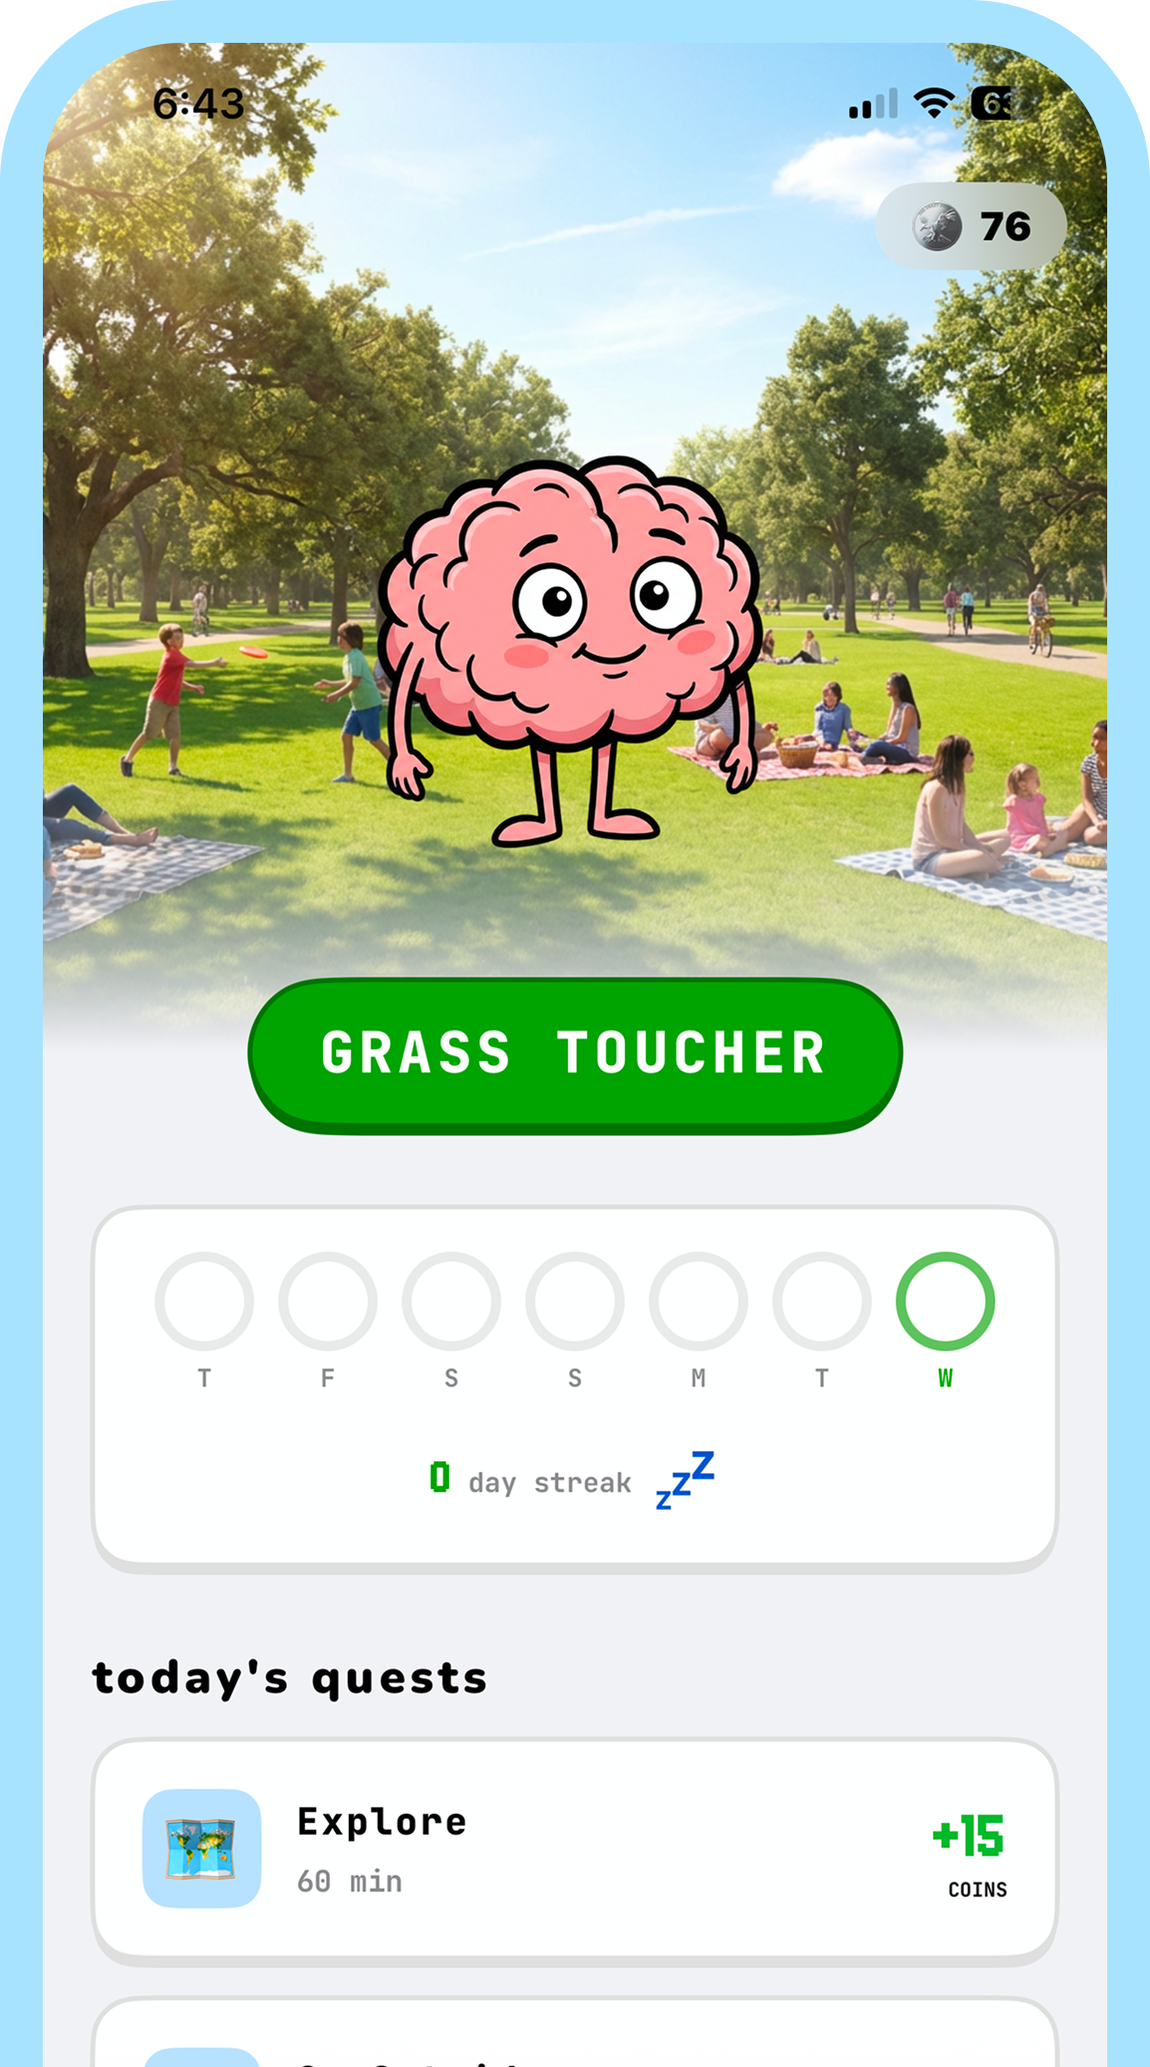
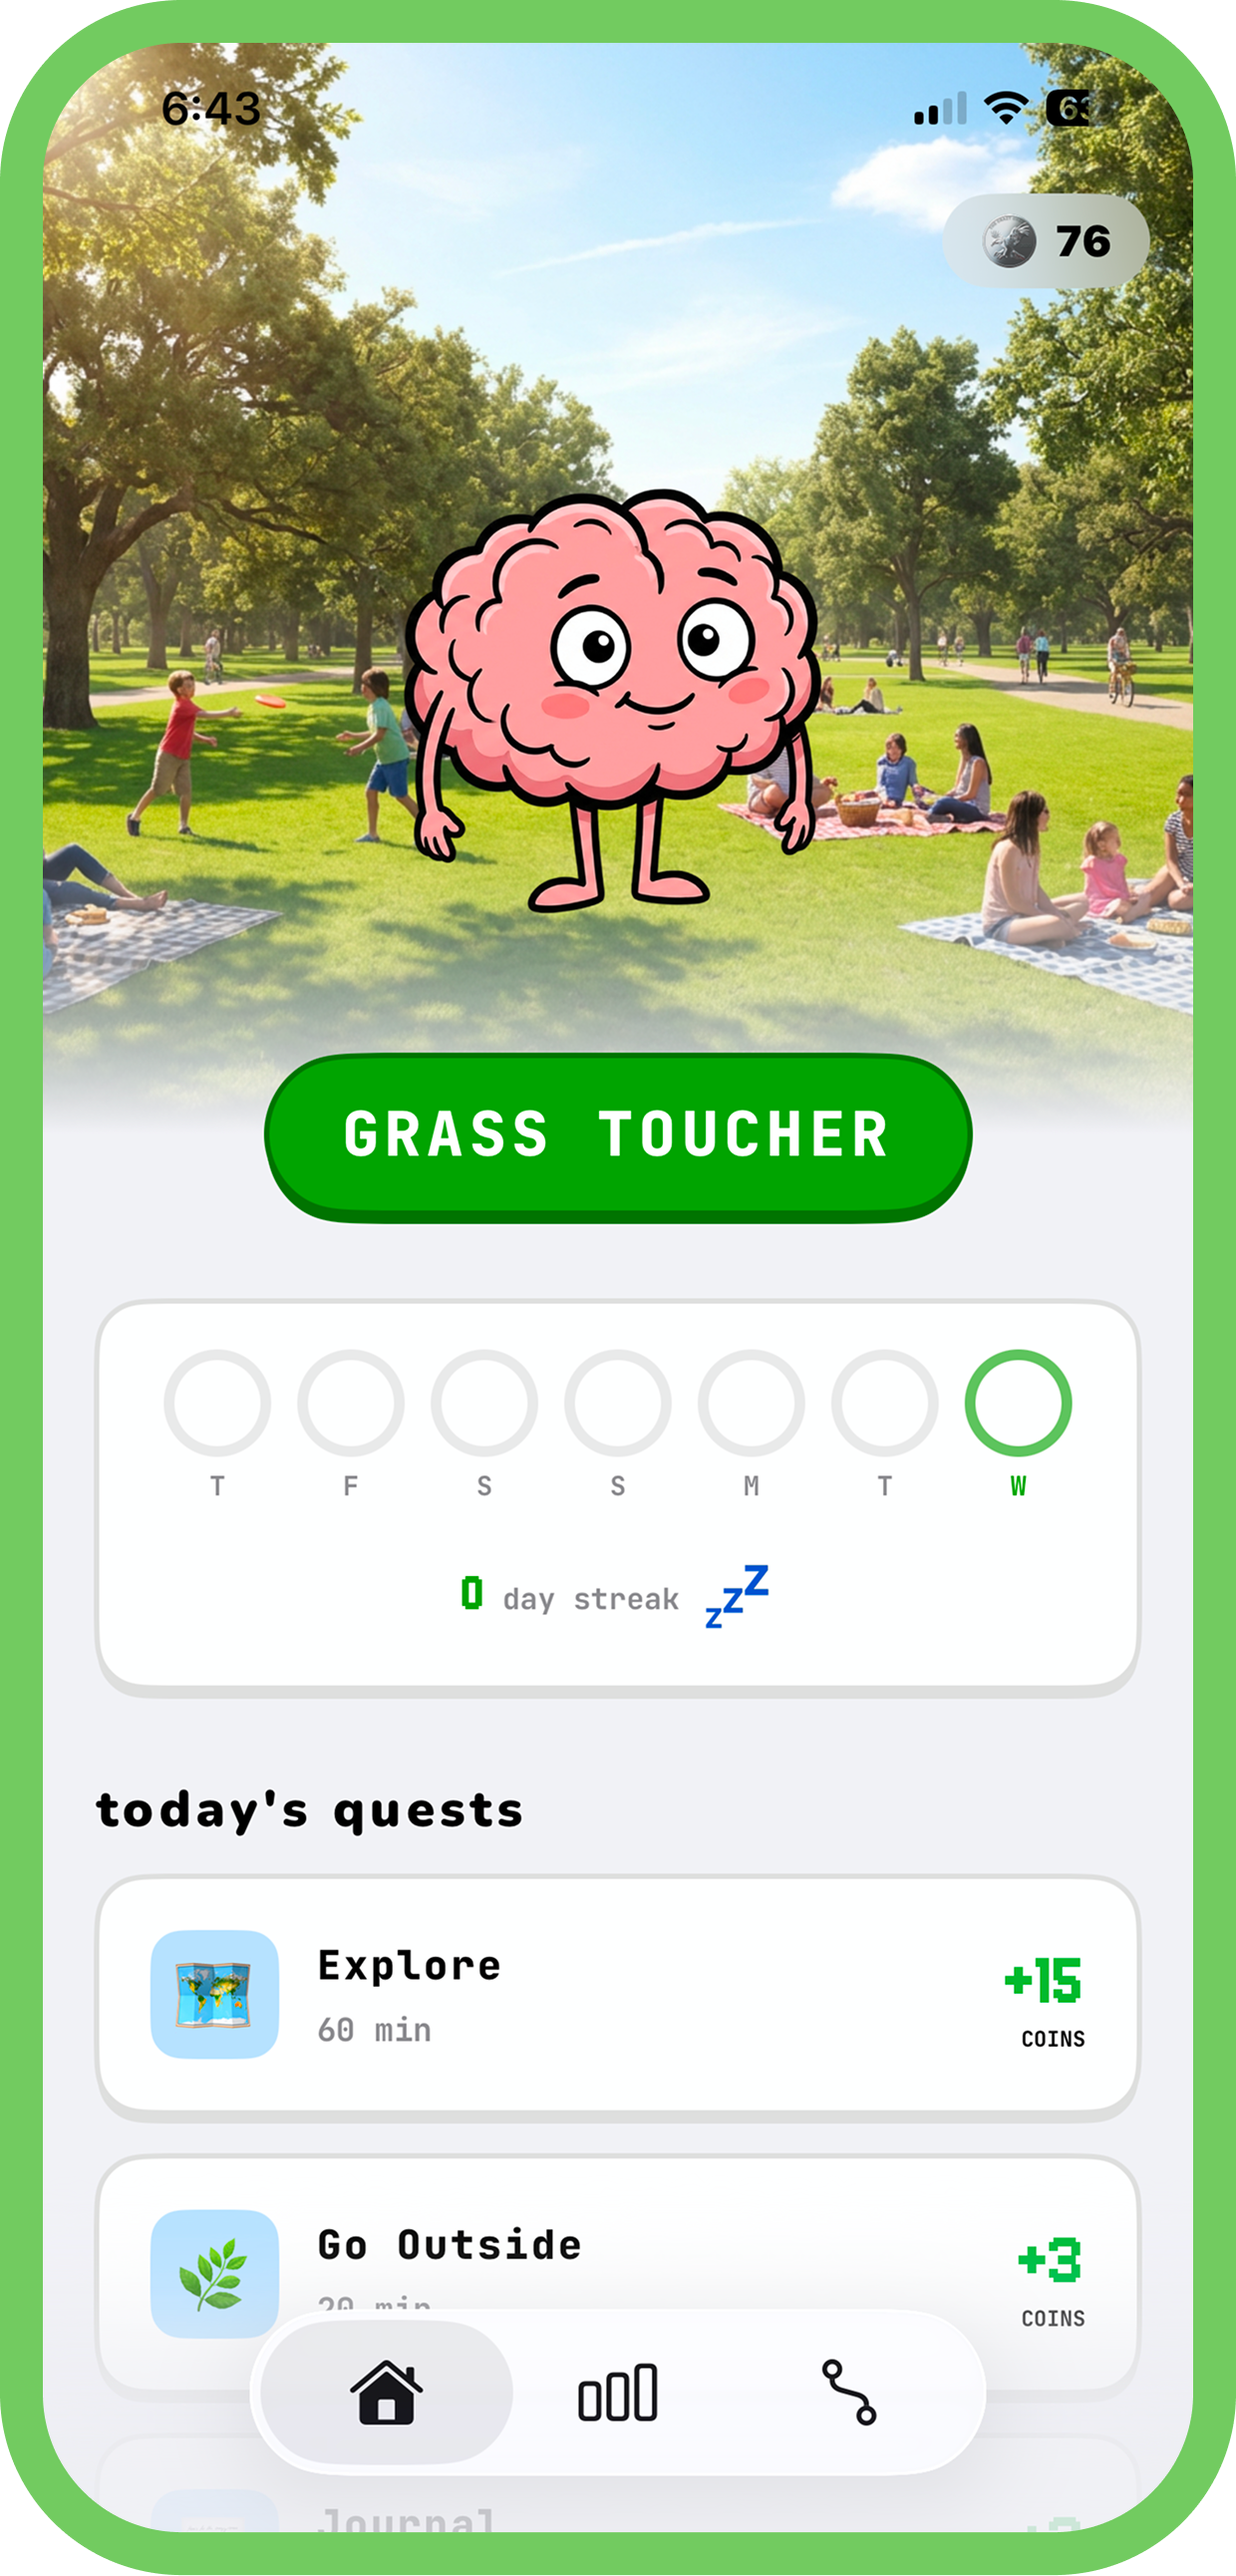
update screenshot

diff --git a/ScrollMaxxing/scrollmaxxing-privacy.html b/ScrollMaxxing/scrollmaxxing-privacy.html
@@ -12,9 +12,9 @@
         * { margin: 0; padding: 0; box-sizing: border-box; }
 
         :root {
-            --cyan: #00C9DB;
-            --cyan-light: #E0F9FB;
-            --cyan-dark: #00A8B8;
+            --cyan: #1BA100;
+            --cyan-light: #E1FFDB;
+            --cyan-dark: #137200;
             --dark: #0A0A0A;
             --gray-800: #1A1A1A;
             --gray-600: #4A4A4A;
@@ -45,6 +45,22 @@
             display: flex;
             justify-content: space-between;
             align-items: center;
+        }
+        .nav-logo {
+            display: flex;
+            align-items: center;
+            gap: 8px;
+            font-size: 20px;
+            font-weight: 700;
+            color: var(--dark);
+            text-decoration: none;
+            letter-spacing: -0.5px;
+        }
+        .nav-logo img {
+            display: block;
+            height: 28px;
+            width: 28px;
+            border-radius: 6px;
         }
         .nav-cta {
             background: var(--dark);
@@ -162,7 +178,7 @@
 
     <!-- NAV -->
     <nav>
-        <a href="./scrollmaxxing.html"><img src="logotitlecentered.png" alt="scrollmaxxing" style="height: 28px;"></a>
+        <a href="./scrollmaxxing.html" class="nav-logo"><img src="icon.png" alt="">scrollmaxxing</a>
         <a href="./scrollmaxxing.html#download" class="nav-cta">Download</a>
     </nav>
 

diff --git a/ScrollMaxxing/scrollmaxxing-support.html b/ScrollMaxxing/scrollmaxxing-support.html
@@ -12,9 +12,9 @@
         * { margin: 0; padding: 0; box-sizing: border-box; }
 
         :root {
-            --cyan: #00C9DB;
-            --cyan-light: #E0F9FB;
-            --cyan-dark: #00A8B8;
+            --cyan: #1BA100;
+            --cyan-light: #E1FFDB;
+            --cyan-dark: #137200;
             --dark: #0A0A0A;
             --gray-800: #1A1A1A;
             --gray-600: #4A4A4A;
@@ -45,6 +45,22 @@
             display: flex;
             justify-content: space-between;
             align-items: center;
+        }
+        .nav-logo {
+            display: flex;
+            align-items: center;
+            gap: 8px;
+            font-size: 20px;
+            font-weight: 700;
+            color: var(--dark);
+            text-decoration: none;
+            letter-spacing: -0.5px;
+        }
+        .nav-logo img {
+            display: block;
+            height: 28px;
+            width: 28px;
+            border-radius: 6px;
         }
         .nav-cta {
             background: var(--dark);
@@ -186,7 +202,7 @@
 
     <!-- NAV -->
     <nav>
-        <a href="./scrollmaxxing.html"><img src="logotitlecentered.png" alt="scrollmaxxing" style="height: 28px;"></a>
+        <a href="./scrollmaxxing.html" class="nav-logo"><img src="icon.png" alt="">scrollmaxxing</a>
         <a href="./scrollmaxxing.html#download" class="nav-cta">Download</a>
     </nav>
 

diff --git a/ScrollMaxxing/scrollmaxxing-termsofservice.html b/ScrollMaxxing/scrollmaxxing-termsofservice.html
@@ -12,9 +12,9 @@
         * { margin: 0; padding: 0; box-sizing: border-box; }
 
         :root {
-            --cyan: #00C9DB;
-            --cyan-light: #E0F9FB;
-            --cyan-dark: #00A8B8;
+            --cyan: #1BA100;
+            --cyan-light: #E1FFDB;
+            --cyan-dark: #137200;
             --dark: #0A0A0A;
             --gray-800: #1A1A1A;
             --gray-600: #4A4A4A;
@@ -45,6 +45,22 @@
             display: flex;
             justify-content: space-between;
             align-items: center;
+        }
+        .nav-logo {
+            display: flex;
+            align-items: center;
+            gap: 8px;
+            font-size: 20px;
+            font-weight: 700;
+            color: var(--dark);
+            text-decoration: none;
+            letter-spacing: -0.5px;
+        }
+        .nav-logo img {
+            display: block;
+            height: 28px;
+            width: 28px;
+            border-radius: 6px;
         }
         .nav-cta {
             background: var(--dark);
@@ -162,7 +178,7 @@
 
     <!-- NAV -->
     <nav>
-        <a href="./scrollmaxxing.html"><img src="logotitlecentered.png" alt="scrollmaxxing" style="height: 28px;"></a>
+        <a href="./scrollmaxxing.html" class="nav-logo"><img src="icon.png" alt="">scrollmaxxing</a>
         <a href="./scrollmaxxing.html#download" class="nav-cta">Download</a>
     </nav>
 

diff --git a/ScrollMaxxing/index.html b/ScrollMaxxing/index.html
@@ -20,9 +20,9 @@
         * { margin: 0; padding: 0; box-sizing: border-box; }
 
         :root {
-            --cyan: #00C9DB;
-            --cyan-light: #E0F9FB;
-            --cyan-dark: #00A8B8;
+            --cyan: #1BA100;
+            --cyan-light: #E1FFDB;
+            --cyan-dark: #137200;
             --dark: #0A0A0A;
             --gray-800: #1A1A1A;
             --gray-600: #4A4A4A;
@@ -60,11 +60,20 @@
             align-items: center;
         }
         .nav-logo {
+            display: flex;
+            align-items: center;
+            gap: 8px;
             font-size: 20px;
             font-weight: 700;
             color: var(--dark);
             text-decoration: none;
             letter-spacing: -0.5px;
+        }
+        .nav-logo img {
+            display: block;
+            height: 28px;
+            width: 28px;
+            border-radius: 6px;
         }
         .nav-cta {
             background: var(--dark);
@@ -365,7 +374,7 @@
 
     <!-- NAV -->
     <nav>
-        <a href="./scrollmaxxing.html"><img src="logotitlecentered.png" alt="scrollmaxxing" style="height: 28px;"></a>
+        <a href="./scrollmaxxing.html" class="nav-logo"><img src="icon.png" alt="">scrollmaxxing</a>
         <a href="#download" class="nav-cta">Download</a>
     </nav>
 

diff --git a/ScrollMaxxing/scrollmaxxing.html b/ScrollMaxxing/scrollmaxxing.html
@@ -54,9 +54,9 @@
         * { margin: 0; padding: 0; box-sizing: border-box; }
 
         :root {
-            --cyan: #00C9DB;
-            --cyan-light: #E0F9FB;
-            --cyan-dark: #00A8B8;
+            --cyan: #1BA100;
+            --cyan-light: #E1FFDB;
+            --cyan-dark: #137200;
             --dark: #0A0A0A;
             --gray-800: #1A1A1A;
             --gray-600: #4A4A4A;
@@ -94,11 +94,20 @@
             align-items: center;
         }
         .nav-logo {
+            display: flex;
+            align-items: center;
+            gap: 8px;
             font-size: 20px;
             font-weight: 700;
             color: var(--dark);
             text-decoration: none;
             letter-spacing: -0.5px;
+        }
+        .nav-logo img {
+            display: block;
+            height: 28px;
+            width: 28px;
+            border-radius: 6px;
         }
         .nav-cta {
             background: var(--dark);
@@ -399,7 +408,7 @@
 
     <!-- NAV -->
     <nav>
-        <a href="./scrollmaxxing.html"><img src="logotitlecentered.png" alt="scrollmaxxing" style="height: 28px;"></a>
+        <a href="./scrollmaxxing.html" class="nav-logo"><img src="icon.png" alt="">scrollmaxxing</a>
         <a href="#download" class="nav-cta">Download</a>
     </nav>
 
